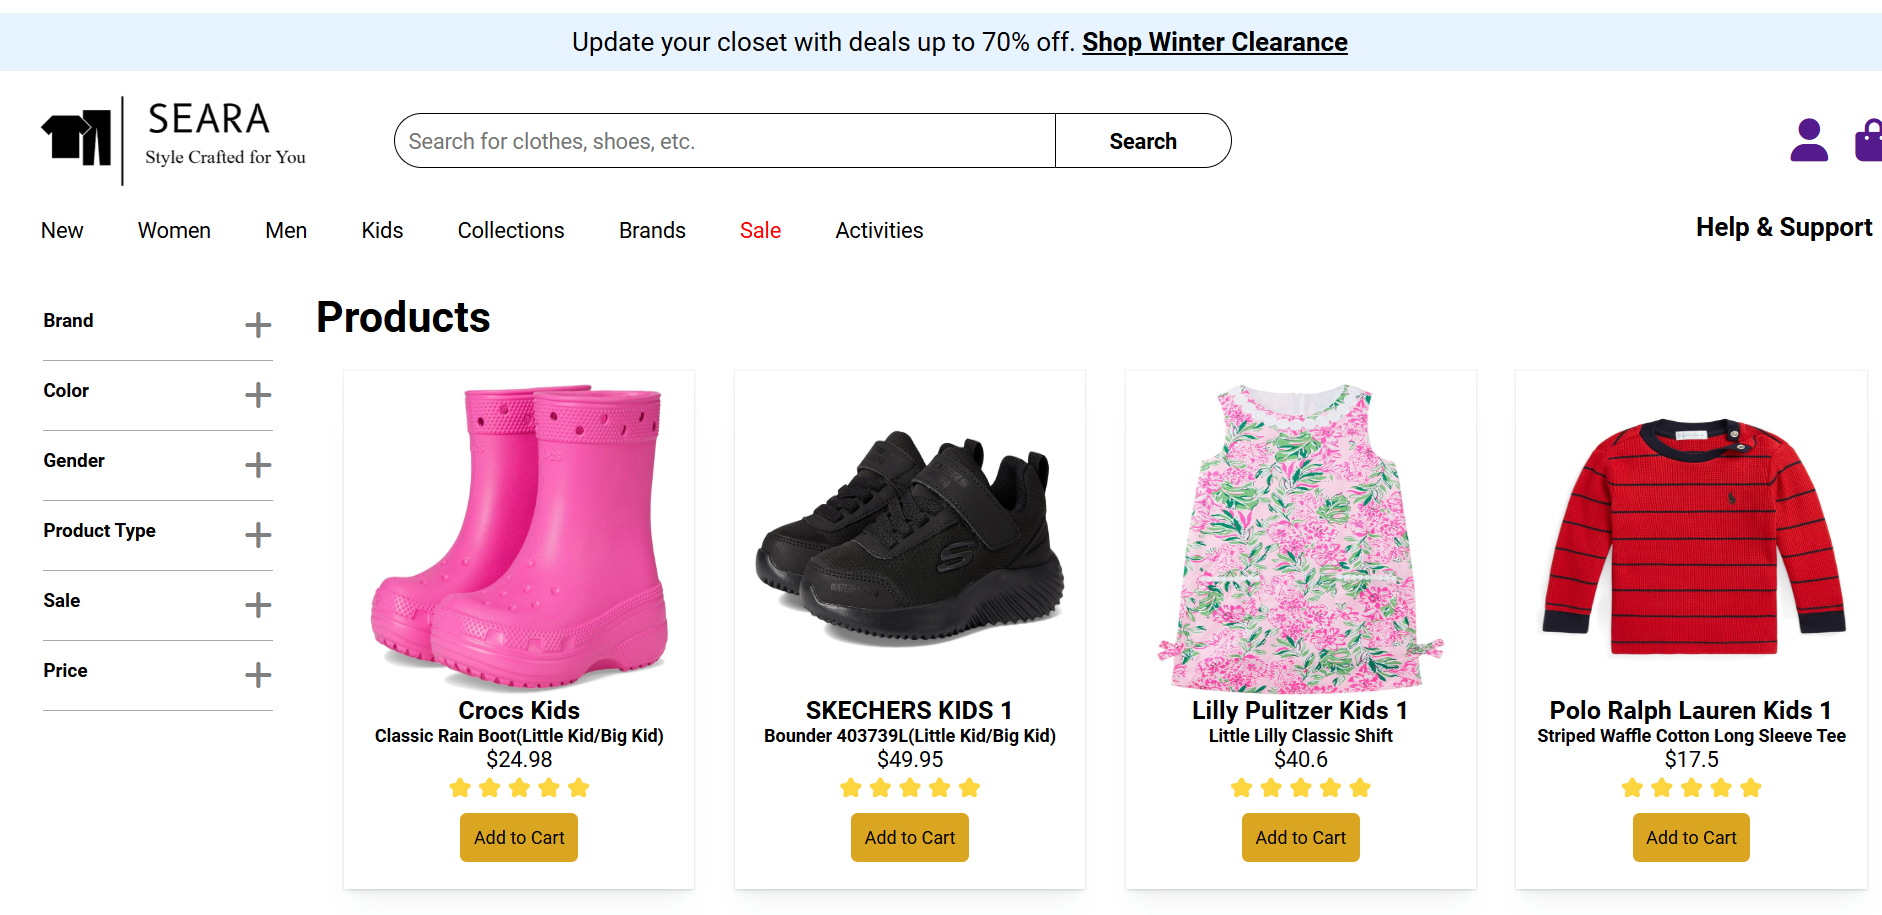
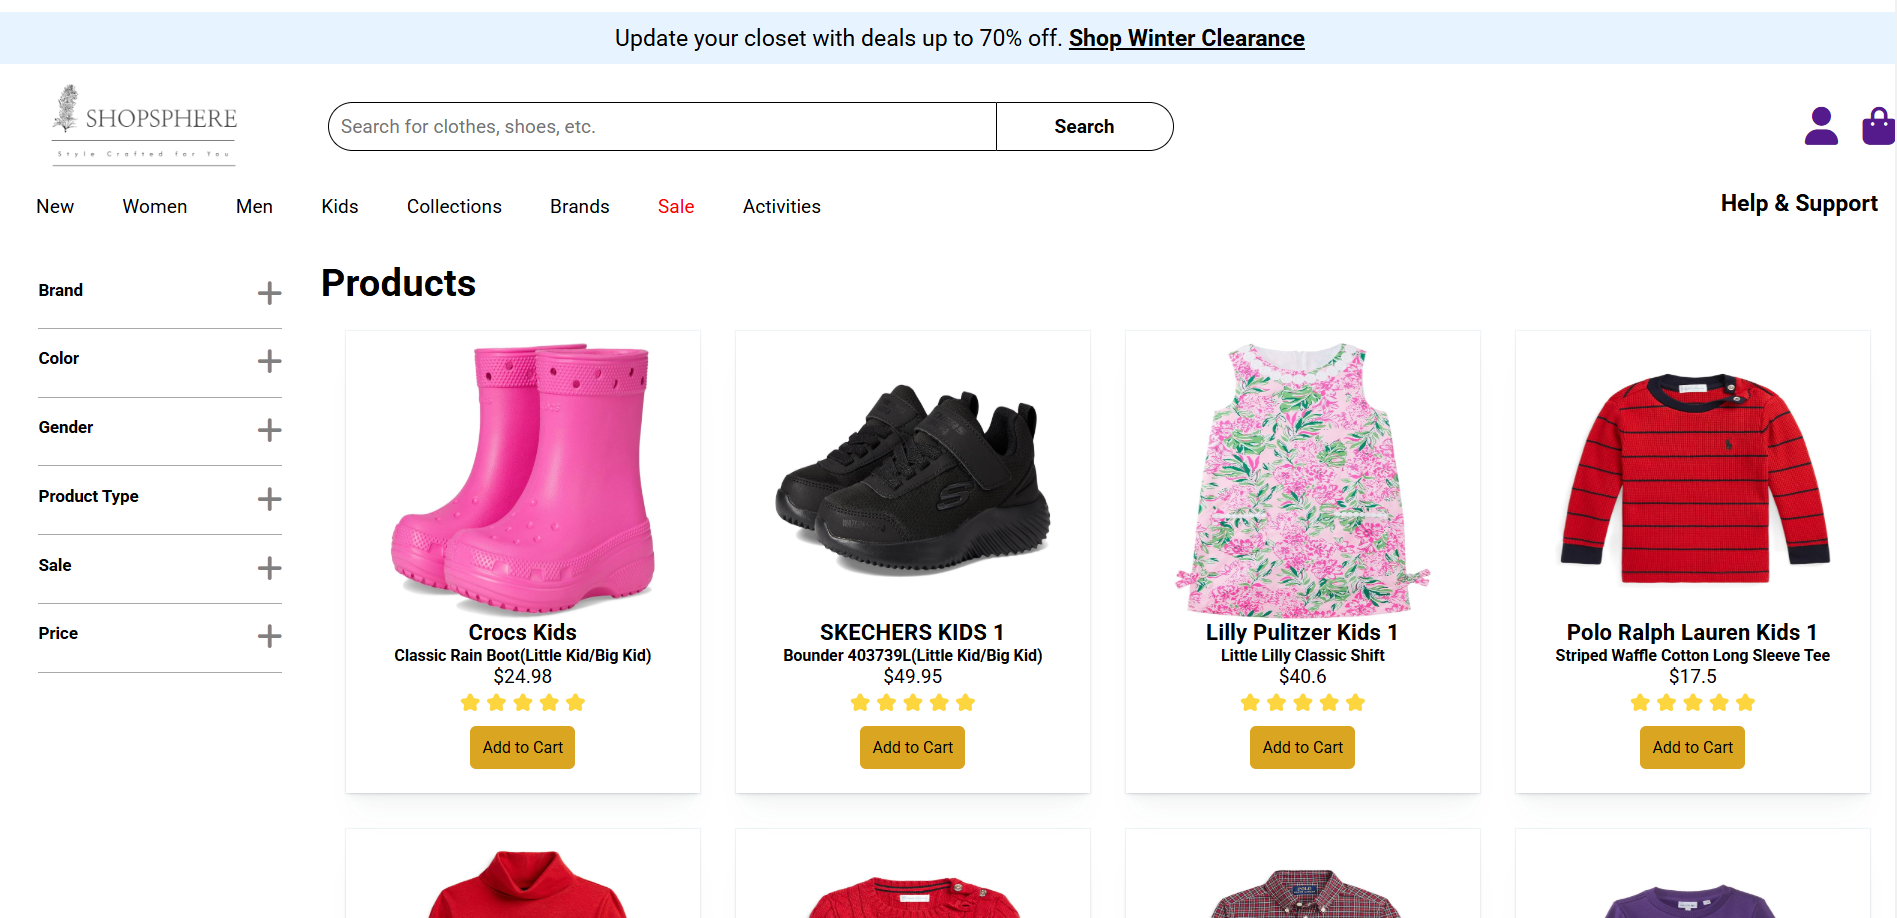
Updated Screenshots

diff --git a/Scripts/footer.js b/Scripts/footer.js
@@ -6,14 +6,14 @@ export const footer = () => {
     </div>
     <div class="footer-links">
       <div class="col">
-        <h3>About Seara</h3>
+        <h3>About ShopSphere</h3>
         <a href="#">About</a>
-        <a href="#">Seara ONE</a>
-        <a href="#">Seara for Good</a>
-        <a href="#">Seara for Work</a>
-        <a href="#">Get the Seara Mobile App</a>
+        <a href="#">ShopSphere ONE</a>
+        <a href="#">ShopSphere for Good</a>
+        <a href="#">ShopSphere for Work</a>
+        <a href="#">Get the ShopSphere Mobile App</a>
         <a href="#">Amazon Prime Benefits</a>
-        <a href="#">Seara VIP Benefits</a>
+        <a href="#">ShopSphere VIP Benefits</a>
         <a href="#">Coupons & Sales</a>
         <a href="#">Accessibility Statement</a>
       </div>
@@ -34,7 +34,7 @@ export const footer = () => {
         <a href="#">Take Survey</a>
       </div>
       <div class="col">
-        <h3>Explore Seara</h3>
+        <h3>Explore ShopSphere</h3>
         <a href="#">Brands</a>
         <a href="#">Clothing</a>
         <a href="#">The Style Room</a>
@@ -44,13 +44,13 @@ export const footer = () => {
         <a href="#">Jackets</a>
         <a href="#">Shoes</a>
         <a href="#">Watches</a>
-        <a href="#">Seara Adaptive</a>
+        <a href="#">ShopSphere Adaptive</a>
         <a href="#">All Departments</a>
       </div>
     </div>
 
     <div class="copyright">
-      <h5>&copy; 2024–2025 - Seara.com HTML CSS JS E-commerce Website</h5>
+      <h5>&copy; 2024–2025 - ShopSphere.com HTML CSS JS E-commerce Website</h5>
     </div>`;
 
     document.getElementById("footer").innerHTML = card
